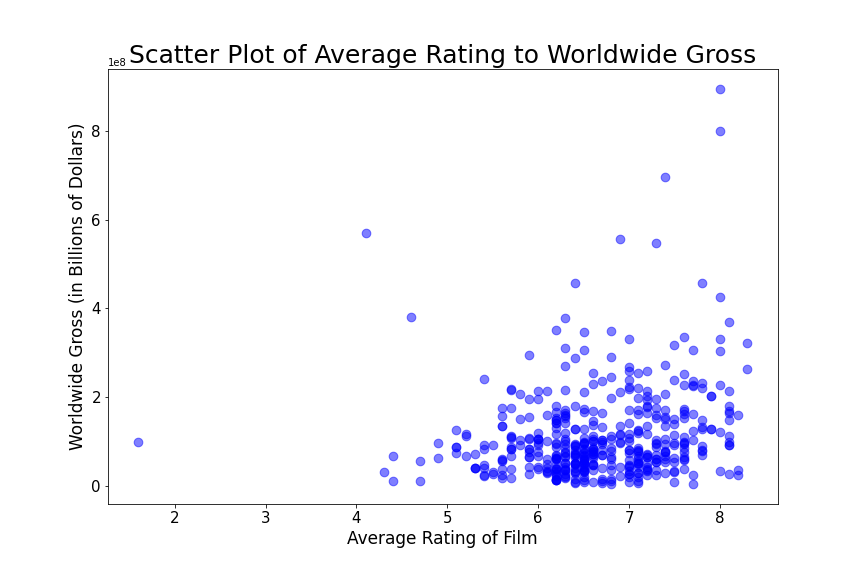
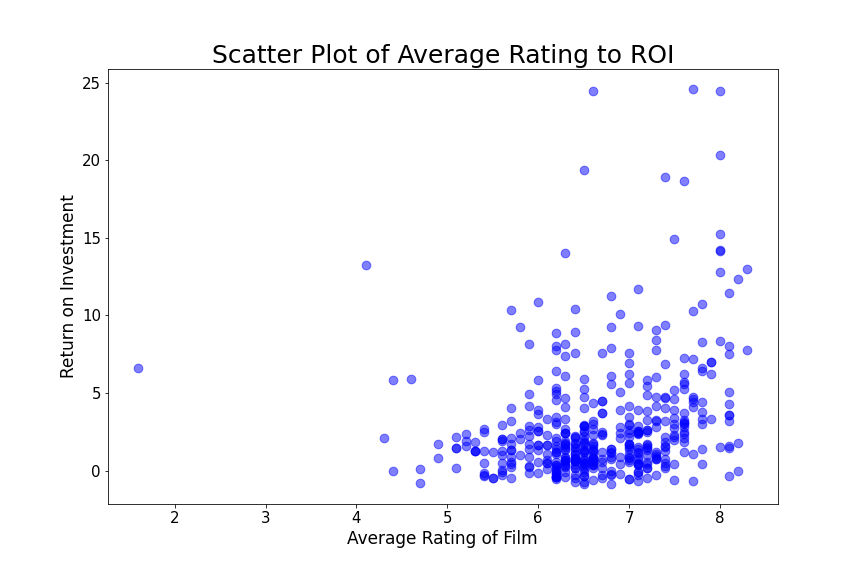
adding Readme and pictures and some spelling fixes

diff --git a/README.md b/README.md
@@ -1,1 +1,139 @@
 # Phase-1-Project-Best-Team-
+
+## Master Data Filtering and Cleaning
+
+After identifying the data sets needed by all members of our team, we first cleaned the `tn.movie_budgets.csv.gz` by converting it to a Pandas DataFrame and stripping all punctuation from the columns related to finance. All items in these columns were then converted to . A new column was created in the DataFrame called "ROI" in which the return on investment was calculated using the following equation:
+
+#### **worldwide_gross - budget)/(worldwide_gross)**
+
+Yet another column was then added named "start_year" in order to help with joining the DataFrame in later steps. Finally, all rows where worldwide gross was zero were eliminated from the data.
+
+![Image of tn_dataframe after filtering](pictures/goal_2/tn_movie_img.png "tn_dataframe filtered")
+
+Next a connection was established to the unzipped `im.db` file and a curser was created. The master data set required us to select all columns from the `movie_basics` table which were put into a new DataFrame. This DataFrame was then joined with the `tn_movie` DataFrame above and joined into a new DataFrame named `imdb_basics`.
+
+![Image of joined dataframe imdb_basics](pictures/goal_2/imdb_basics.png "Joined dataframe, imdb_movie")
+
+
+# Goal 1 - 
+
+
+
+
+
+
+
+# Goal 2 - Writer and Director Profitablity
+
+
+## Return on Investment for Directors
+
+The first step was joining our `movie_basics` table to our directors and persons tables and then convert the newly created SQL table to a Pandas DataFrame.
+
+![Image of directors dataframe](pictures/goal_2/directors_df.png "Dataframe, directors")
+
+Next, we merged our diectors DataFrame to the `imdb_basics` DataFrame we created as part of our master data set. We perfomed an inner join to keep only the films with the same title that also shared  start years. We joined on two columns in order to avoid false joins where different films have the same title.
+
+![Image of d_info__all dataframe](pictures/goal_2/d_info_all.png "Dataframe, d_info__all, joined from directors and imdb_info")
+
+![Image of 25th and 75th percentile results](pictures/goal_2/budget_per.png "Percentile results")
+
+This data left a lot to be desired, as we had deceased directors, incredibly small budgeted films, and extemely high budgeted films in our data. This was cleaned, eliminating directors that had passed at the time of this data's collection. The data was also constrained to a minimum budget of 10 million dollars and a maximum of 65 million dollars, based on the budget data's 25th and 75th percentiles, respectively. Given the client, this range is ideal as 10 million dollars is an extremely conservative film budget and not much for them to spend. 65 million dollars seems to be a good maximum, as they are establishing a new studio and do should not spend all potential capital on one or two films. These constraints will find a director who is comfortable working in this budget range and returning a profit.
+
+![Image of dataframe with Films, ROI, and Directors for films with budgets between &10 and $65 million. In descending order of ROI](pictures/goal_2/dir_constrained.png "Newly Constrained List")
+
+After additional filtering, we now have a DataFrame of all films, their ROI, and their director. As every director has directed films of various budgets, the mean of all ROI was calculated for each director. The results were then listed in decending order and finally the top 20 directors on this list were placed on a bar graph.
+
+
+![Image of Directors and Average ROI in descending order of ROI](pictures/goal_2/dir_roi.png "Average Director ROI")
+
+![Bar graph showing directors with the top 20 average ROIs](pictures/goal_2/top_20_dir.png "Top 20 Average ROI Graph")
+As can be seen, our data filtering has yeilded the client with a list of  directors with the top 20 ROI. It includes notable directors such as Darren Aronofsky, James Wan, Jordan Peele and M. Night Shyamalan. This graph of the top 20 will be presented to the client as well as the full list upon request. However, this is still 20 choices, which may be overwhelming to the client. This will be further filtered after we create a list of writers with the top ROI.
+
+
+
+## Return on Investment for Writers
+
+The first step was joining our imdb_basics table to our writers and persons tables and then convert the newly SQL table to a Pandas DataFrame.
+
+
+# INSERT writers DF HERE
+
+
+Next, we merged our DataFrame that connected movies to writers to the `imdb_basics` DataFrame we created as part of our master data set. An inner join was performed in order to keep only the films with the same title that also shared  start years. We joined on two columns in order to avoid false joins where different films have the same title.
+
+# INSERT wINFOALL DF HERE
+
+This was cleaned accoring to the guidelines we followed in directors. All deceased writers were eliminated from the new DataFrame and the budget was yet again constrained to the 25th and 75th percentiles (10 million dollars to 65 million dollars).
+
+
+# INSERT LIST OF writers WITH CONSTRAINTS HERE
+
+
+After additional filtering, we now have a DataFrame of all films, their ROI, and their writers. The mean of each writers ROIs were calculated. The results were then listed in decending order and graphed.
+
+
+# INSERT FULL writer LIST HERE
+# INSERT TOP 20 writer BAR GRAPH HERE
+
+
+As can be seen, our data filtering has yeilded the clinet with a list of writers with the top 20 ROIs. Notable individuals on the list include: David Gordon Green, Cary Fukunaga, and John Krasinski. This graph of the top 20 will be presented to the client as well as the full list upon request. We still have many writers to choose from and we need to match them to a director. 
+
+
+However, it would be much simpler to get a writer who is also a director, to save the trouble of having to mach the two roles. It also introduces potential cost savings in streamlining production, as you would only need pay the director slightly more to do the work of two people, rather than paying two seperate people full salaries.
+
+# Who can both direct and write and still deliver the highest return on investment?
+
+
+First we will join our director and writer DataFrames.
+
+# INSERT dw_combo_here
+
+Then we will filter our DataFrame to only rows where the writer and director are the same and return a list of mean ROI by director in descending order. We will limit our results to the top 5 individuals to give the client a clearer, less overwhelming choice.
+
+# INSERT dir_wir.head() here
+
+This list can then be turned into a bar graph, showing the director/writers that yield the highest return on investment for mid-tier budgeted films. 
+
+# INSERT DIR/WRI Bar graph here.
+
+### From this data, we would recomend that our client hires the  writer/director with the highest average return on investment, David Gordon Green.
+
+
+
+# Goal 3
+
+
+
+
+
+
+# Future Improvements 
+#### Look into the ROI for actors/actresses to help narrow down casting
+#### Narrow down writers by region/language to get even more relevant results
+#### Figure out if runtime affects profitability 
+#### Track if a directors ROI can be predicted through modeling (ex. If certain director is given budget X, the ROI will most likely be in Y range
+#### Create a program that you can enter one or more of several variables, and will output ideal director/writer/time of release/etc. based on input
+#### Gather/find new information reguarding the marketing budget and its relationship to total gross and ROI
+
+
+
+# Appendix: 
+
+### Is critical reception correlated to ROI? Worldwide Gross? Domestic Gross?
+A new dataframe was created from the `movie_ratings` and `movie_basics` SQL tables and joind to     `imdb_basics`. The results were then filtered to only films with 50,000 or more votes to prevent skewed data from films with a low number of votes. The same budget constraints were put on this data as in Goal #2 for consistency.
+![DataFrame showing all movies, budget, domestic gross,  worldwide gross, ROI, and average critical reception](pictures/goal_2/crit_list.png "Dataframe of film, financials, and rating")
+
+The Pearson correlations were then found for the rating vs ROI, worldwide gross, anmd domestic gross.
+![A list of the Pearson Correlations](pictures/goal_2/crit_list.png "Pearson correlations")
+
+# INSERT Scatter here
+
+
+#### So there is a positve correlation between critcal rating and ROI/Worldwide gross/domestic gross but its not a high/significant result.
+
+
+
+
+
+
